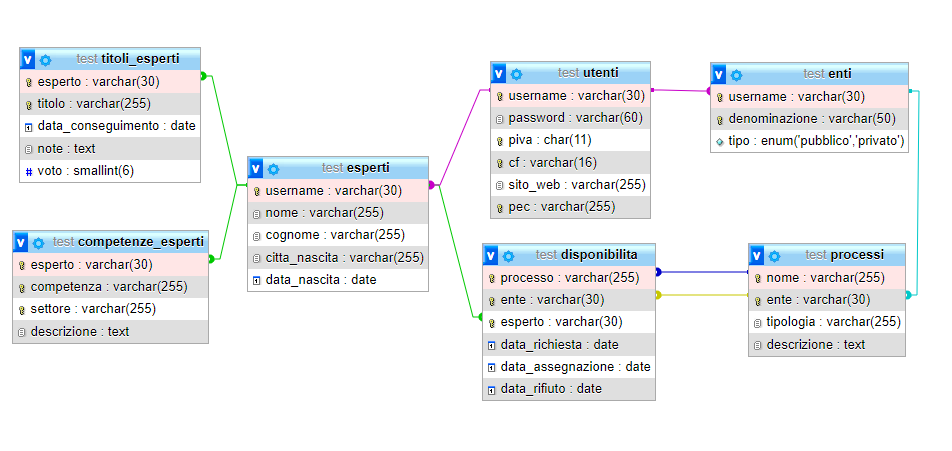
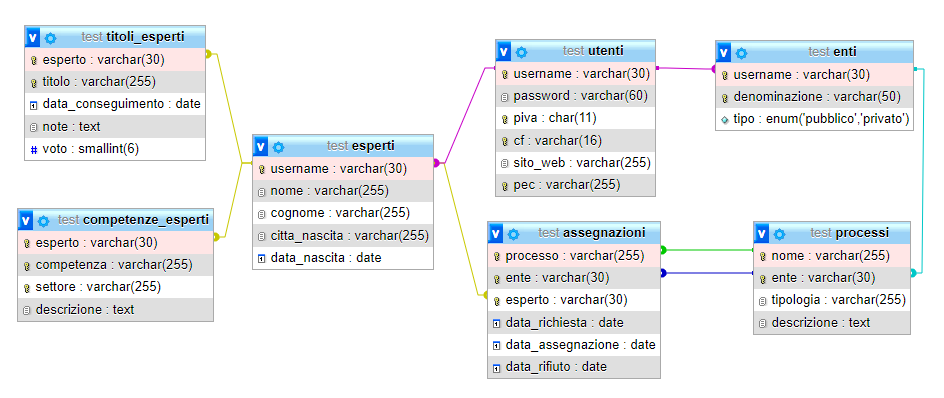
Update DDL, DML and some scripts
fix minori (ridenominazione disponibilita in assegnazioni)

diff --git a/scripts/expert_stats.php b/scripts/expert_stats.php
@@ -42,7 +42,7 @@ function n_accepted_from_expert($username)
 {
     global $connection;
     $n = 0;
-    $query = 'SELECT COUNT(*) AS n FROM disponibilita WHERE esperto = ? AND data_assegnazione IS NOT NULL';
+    $query = 'SELECT COUNT(*) AS n FROM assegnazioni WHERE esperto = ? AND data_assegnazione IS NOT NULL';
     $statement = mysqli_prepare($connection, $query) or die(mysqli_error($connection));
     mysqli_stmt_bind_param($statement, 's', $username) or die(mysqli_error($connection));
     mysqli_stmt_execute($statement) or die(mysqli_error($connection));
@@ -60,7 +60,7 @@ function n_rejected_from_expert($username)
 {
     global $connection;
     $n = 0;
-    $query = 'SELECT COUNT(*) AS n FROM disponibilita WHERE esperto = ? AND data_rifiuto IS NOT NULL';
+    $query = 'SELECT COUNT(*) AS n FROM assegnazioni WHERE esperto = ? AND data_rifiuto IS NOT NULL';
     $statement = mysqli_prepare($connection, $query) or die(mysqli_error($connection));
     mysqli_stmt_bind_param($statement, 's', $username) or die(mysqli_error($connection));
     mysqli_stmt_execute($statement) or die(mysqli_error($connection));
@@ -78,7 +78,7 @@ function n_dangling_from_expert($username)
 {
     global $connection;
     $n = 0;
-    $query = 'SELECT COUNT(*) AS n FROM disponibilita WHERE esperto = ? AND data_assegnazione IS NULL AND data_rifiuto IS NULL';
+    $query = 'SELECT COUNT(*) AS n FROM assegnazioni WHERE esperto = ? AND data_assegnazione IS NULL AND data_rifiuto IS NULL';
     $statement = mysqli_prepare($connection, $query) or die(mysqli_error($connection));
     mysqli_stmt_bind_param($statement, 's', $username) or die(mysqli_error($connection));
     mysqli_stmt_execute($statement) or die(mysqli_error($connection));
@@ -96,7 +96,7 @@ function n_availability_from_expert($username)
 {
     global $connection;
     $n = 0;
-    $query = 'SELECT COUNT(*) AS n FROM disponibilita WHERE esperto = ?';
+    $query = 'SELECT COUNT(*) AS n FROM assegnazioni WHERE esperto = ?';
     $statement = mysqli_prepare($connection, $query) or die(mysqli_error($connection));
     mysqli_stmt_bind_param($statement, 's', $username) or die(mysqli_error($connection));
     mysqli_stmt_execute($statement) or die(mysqli_error($connection));

diff --git a/scripts/entity_stats.php b/scripts/entity_stats.php
@@ -24,7 +24,7 @@ function n_accepted_from_entity($username)
 {
     global $connection;
     $n = 0;
-    $query = 'SELECT COUNT(*) AS n FROM disponibilita WHERE ente = ? AND data_assegnazione IS NOT NULL';
+    $query = 'SELECT COUNT(*) AS n FROM assegnazioni WHERE ente = ? AND data_assegnazione IS NOT NULL';
     $statement = mysqli_prepare($connection, $query) or die(mysqli_error($connection));
     mysqli_stmt_bind_param($statement, 's', $username) or die(mysqli_error($connection));
     mysqli_stmt_execute($statement) or die(mysqli_error($connection));
@@ -42,7 +42,7 @@ function n_rejected_from_entity($username)
 {
     global $connection;
     $n = 0;
-    $query = 'SELECT COUNT(*) AS n FROM disponibilita WHERE ente = ? AND data_rifiuto IS NOT NULL';
+    $query = 'SELECT COUNT(*) AS n FROM assegnazioni WHERE ente = ? AND data_rifiuto IS NOT NULL';
     $statement = mysqli_prepare($connection, $query) or die(mysqli_error($connection));
     mysqli_stmt_bind_param($statement, 's', $username) or die(mysqli_error($connection));
     mysqli_stmt_execute($statement) or die(mysqli_error($connection));
@@ -60,7 +60,7 @@ function n_dangling_from_entity($username)
 {
     global $connection;
     $n = 0;
-    $query = 'SELECT COUNT(*) AS n FROM disponibilita WHERE ente = ? AND data_assegnazione IS NULL AND data_rifiuto IS NULL';
+    $query = 'SELECT COUNT(*) AS n FROM assegnazioni WHERE ente = ? AND data_assegnazione IS NULL AND data_rifiuto IS NULL';
     $statement = mysqli_prepare($connection, $query) or die(mysqli_error($connection));
     mysqli_stmt_bind_param($statement, 's', $username) or die(mysqli_error($connection));
     mysqli_stmt_execute($statement) or die(mysqli_error($connection));
@@ -78,7 +78,7 @@ function n_availability_from_entity($username)
 {
     global $connection;
     $n = 0;
-    $query = 'SELECT COUNT(*) AS n FROM disponibilita WHERE ente = ?';
+    $query = 'SELECT COUNT(*) AS n FROM assegnazioni WHERE ente = ?';
     $statement = mysqli_prepare($connection, $query) or die(mysqli_error($connection));
     mysqli_stmt_bind_param($statement, 's', $username) or die(mysqli_error($connection));
     mysqli_stmt_execute($statement) or die(mysqli_error($connection));

diff --git a/scripts/show_availability.php b/scripts/show_availability.php
@@ -5,8 +5,8 @@ require_once('includes/session.php');
 function show_all_availabilities_from_expert($expert_username)
 {
     global $connection;
-    $query = 'SELECT processo, descrizione, tipologia, pec, sito_web, disponibilita.ente, data_richiesta, data_assegnazione, data_rifiuto
-    FROM disponibilita JOIN processi ON disponibilita.processo = processi.nome JOIN utenti ON disponibilita.ente = utenti.username
+    $query = 'SELECT processo, descrizione, tipologia, pec, sito_web, assegnazioni.ente, data_richiesta, data_assegnazione, data_rifiuto
+    FROM assegnazioni JOIN processi ON assegnazioni.processo = processi.nome JOIN utenti ON assegnazioni.ente = utenti.username
     WHERE esperto = ?';
     $statement = mysqli_prepare($connection, $query) or die(mysqli_error($connection));
     mysqli_stmt_bind_param($statement, 's', $expert_username) or die(mysqli_error($connection));
@@ -30,8 +30,8 @@ function show_all_availabilities_from_entity($entity_username)
 {
     global $connection;
     $query = 'SELECT processo, descrizione, tipologia, pec, sito_web, esperto, data_richiesta, data_assegnazione, data_rifiuto
-    FROM disponibilita JOIN processi ON disponibilita.processo = processi.nome JOIN utenti ON disponibilita.esperto = utenti.username
-    WHERE disponibilita.ente = ?';
+    FROM assegnazioni JOIN processi ON assegnazioni.processo = processi.nome JOIN utenti ON assegnazioni.esperto = utenti.username
+    WHERE assegnazioni.ente = ?';
     $statement = mysqli_prepare($connection, $query) or die(mysqli_error($connection));
     mysqli_stmt_bind_param($statement, 's', $entity_username) or die(mysqli_error($connection));
     mysqli_stmt_execute($statement) or die(mysqli_error($connection));

diff --git a/scripts/accept_reject.php b/scripts/accept_reject.php
@@ -53,7 +53,7 @@ if (!mysqli_stmt_fetch($statement)) {
 }
 mysqli_stmt_close($statement) or die(mysqli_error($connection));
 
-$query = 'SELECT data_assegnazione, data_rifiuto FROM disponibilita WHERE processo = ? AND esperto = ?';
+$query = 'SELECT data_assegnazione, data_rifiuto FROM assegnazioni WHERE processo = ? AND esperto = ?';
 $statement = mysqli_prepare($connection, $query) or die(mysqli_error($connection));
 mysqli_stmt_bind_param($statement, 'ss', $process, $username) or die(mysqli_error($connection));
 mysqli_stmt_execute($statement) or die(mysqli_error($connection));
@@ -78,9 +78,9 @@ if (empty($action)) {
     header('Location: ../assegnazioni.php?err=operazione+non+inserita');
     die('azione non inserita');
 } else if ($action == 'accept') {
-    $query = 'UPDATE disponibilita SET data_assegnazione = ? WHERE processo = ? AND esperto = ?';
+    $query = 'UPDATE assegnazioni SET data_assegnazione = ? WHERE processo = ? AND esperto = ?';
 } else if ($action == 'reject') {
-    $query = 'UPDATE disponibilita SET data_rifiuto = ? WHERE processo = ? AND esperto = ?';
+    $query = 'UPDATE assegnazioni SET data_rifiuto = ? WHERE processo = ? AND esperto = ?';
 } else {
     header('Location: ../assegnazioni.php?err=operazione+non+valida');
     die('operazione non valida');

diff --git a/scripts/add_availability.php b/scripts/add_availability.php
@@ -42,7 +42,7 @@ if (!mysqli_stmt_fetch($statement)) {
 }
 mysqli_stmt_close($statement) or die(mysqli_error($connection));
 
-$query = 'SELECT * FROM disponibilita WHERE processo = ? AND esperto = ?';
+$query = 'SELECT * FROM assegnazioni WHERE processo = ? AND esperto = ?';
 $statement = mysqli_prepare($connection, $query) or die(mysqli_error($connection));
 mysqli_stmt_bind_param($statement, 'ss', $process, $expert) or die(mysqli_error($connection));
 mysqli_stmt_execute($statement) or die(mysqli_error($connection));
@@ -53,7 +53,7 @@ if (mysqli_stmt_fetch($statement)) {
 }
 mysqli_stmt_close($statement) or die(mysqli_error($connection));
 
-$query = "INSERT INTO disponibilita(processo, ente, esperto) VALUES (?, ?, ?);";
+$query = "INSERT INTO assegnazioni(processo, ente, esperto) VALUES (?, ?, ?);";
 $statement = mysqli_prepare($connection, $query) or die(mysqli_error($connection));
 mysqli_stmt_bind_param($statement, 'sss', $process, $username, $expert) or die(mysqli_error($connection));
 mysqli_stmt_execute($statement) or die(mysqli_error($connection));
